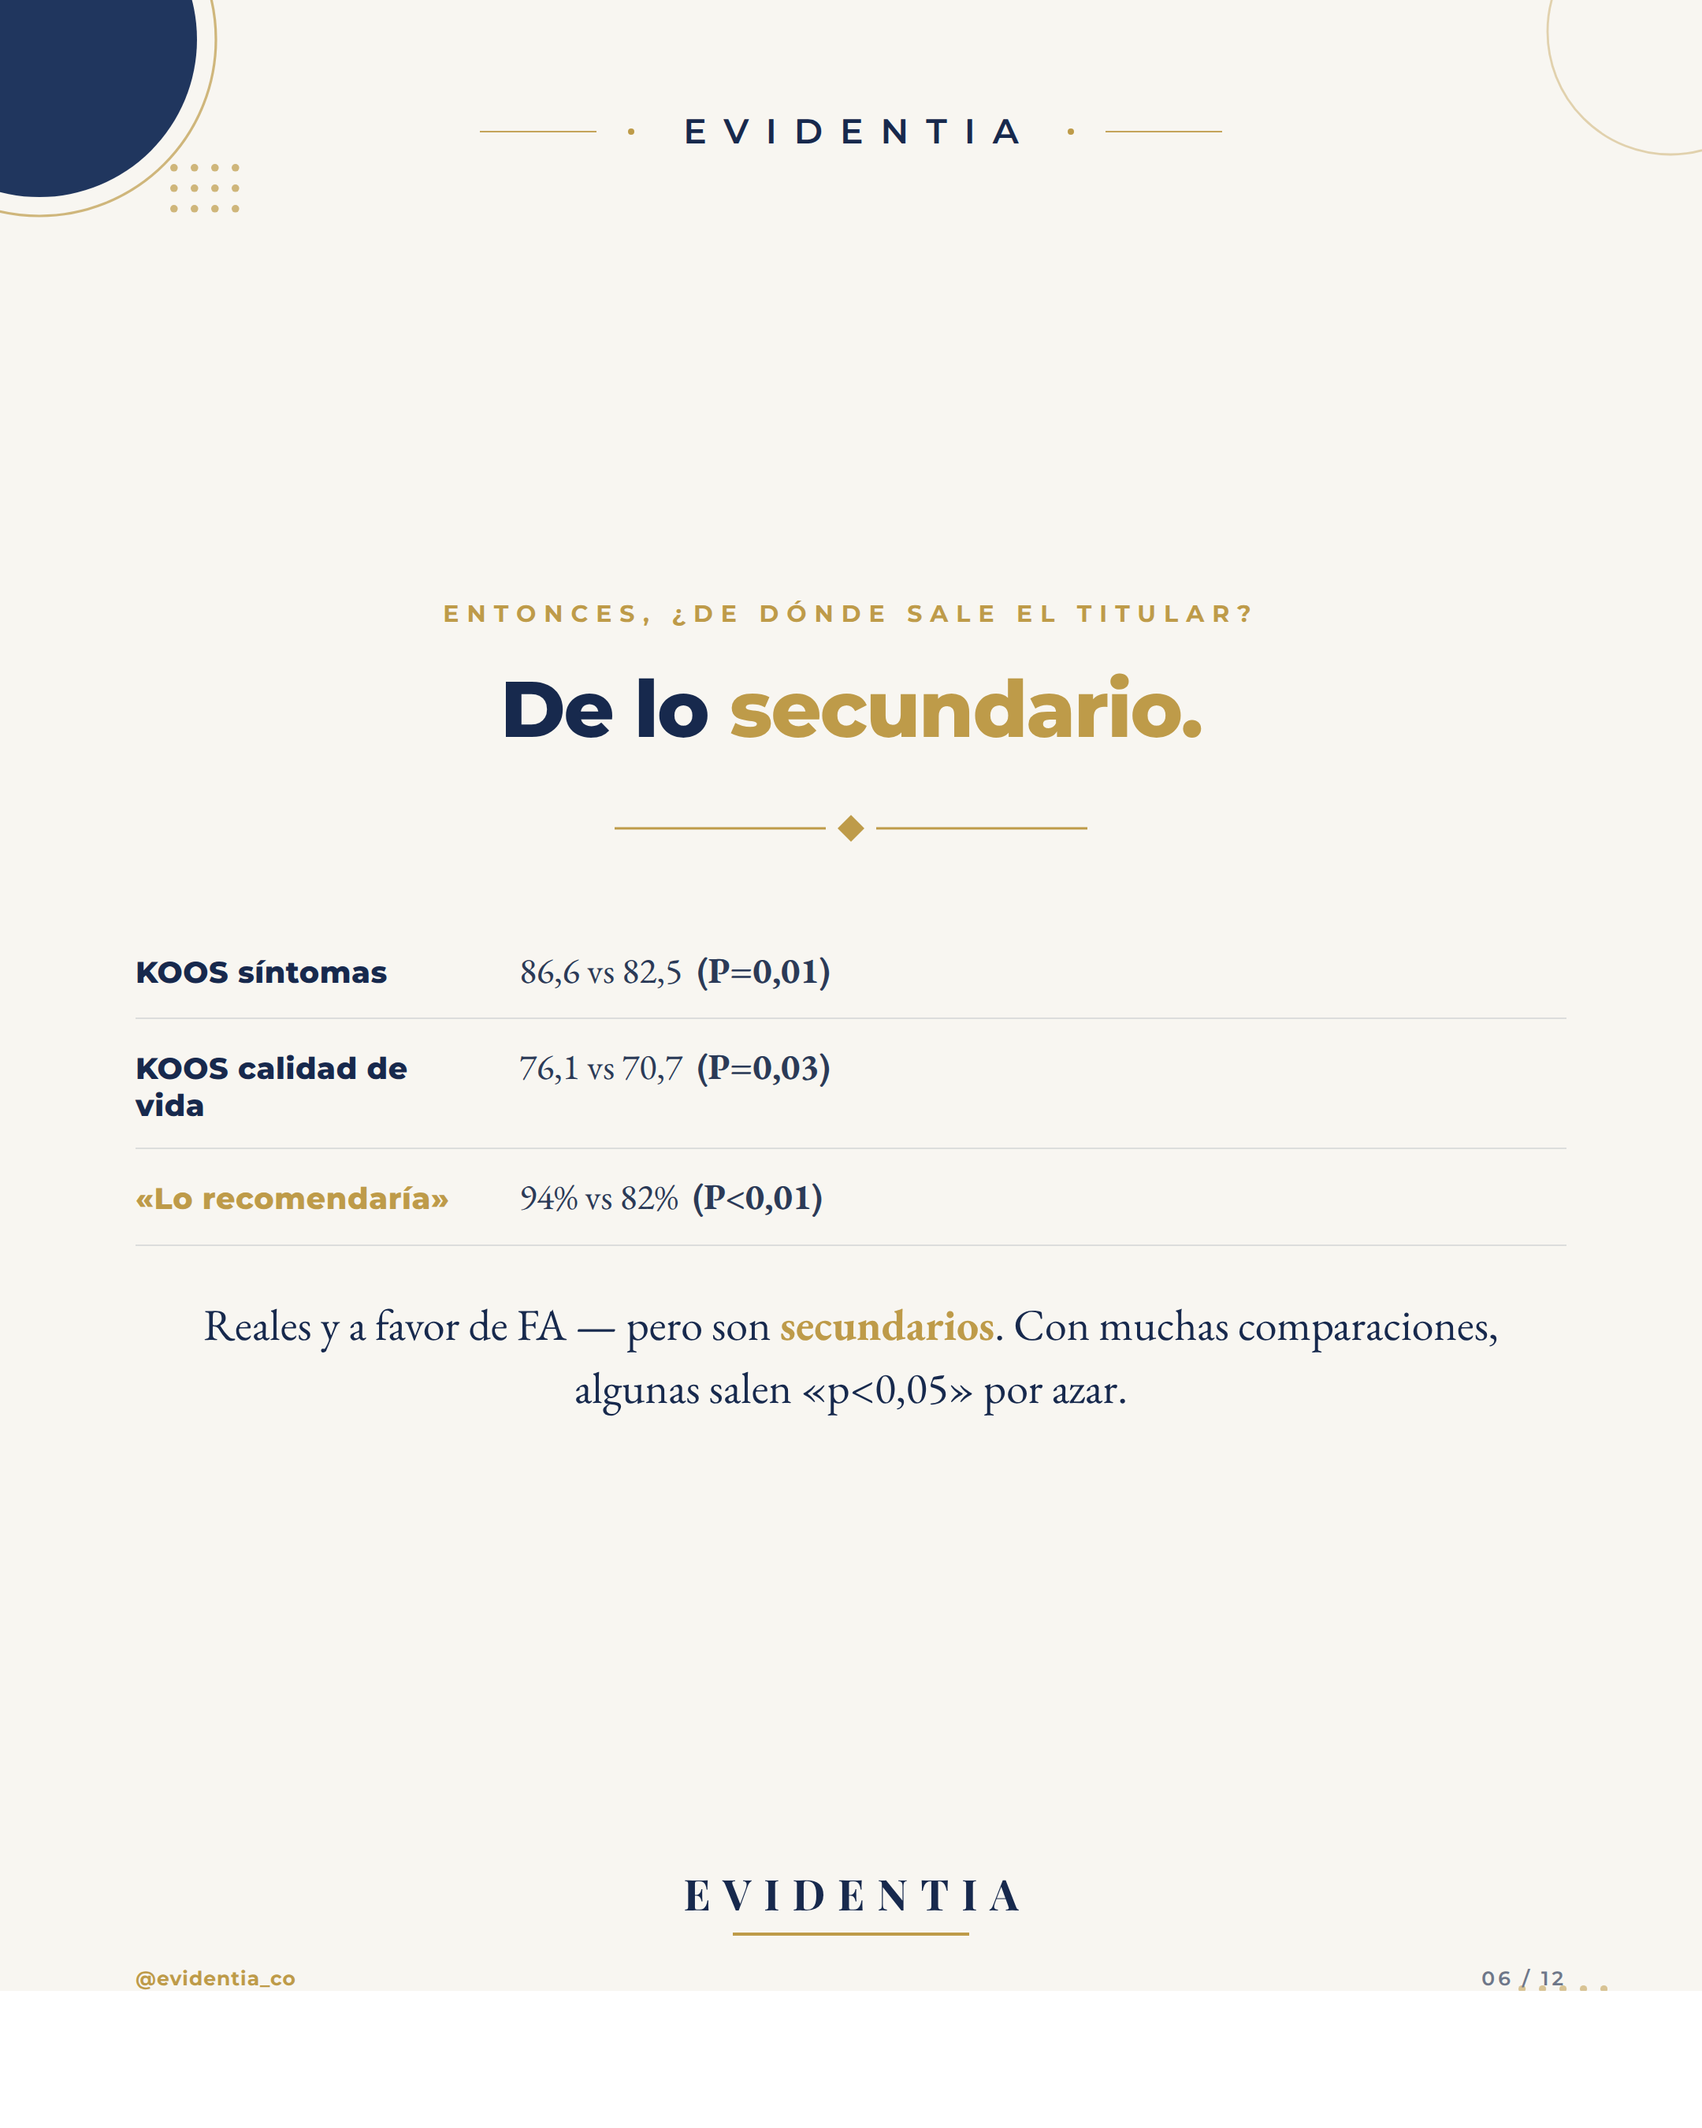
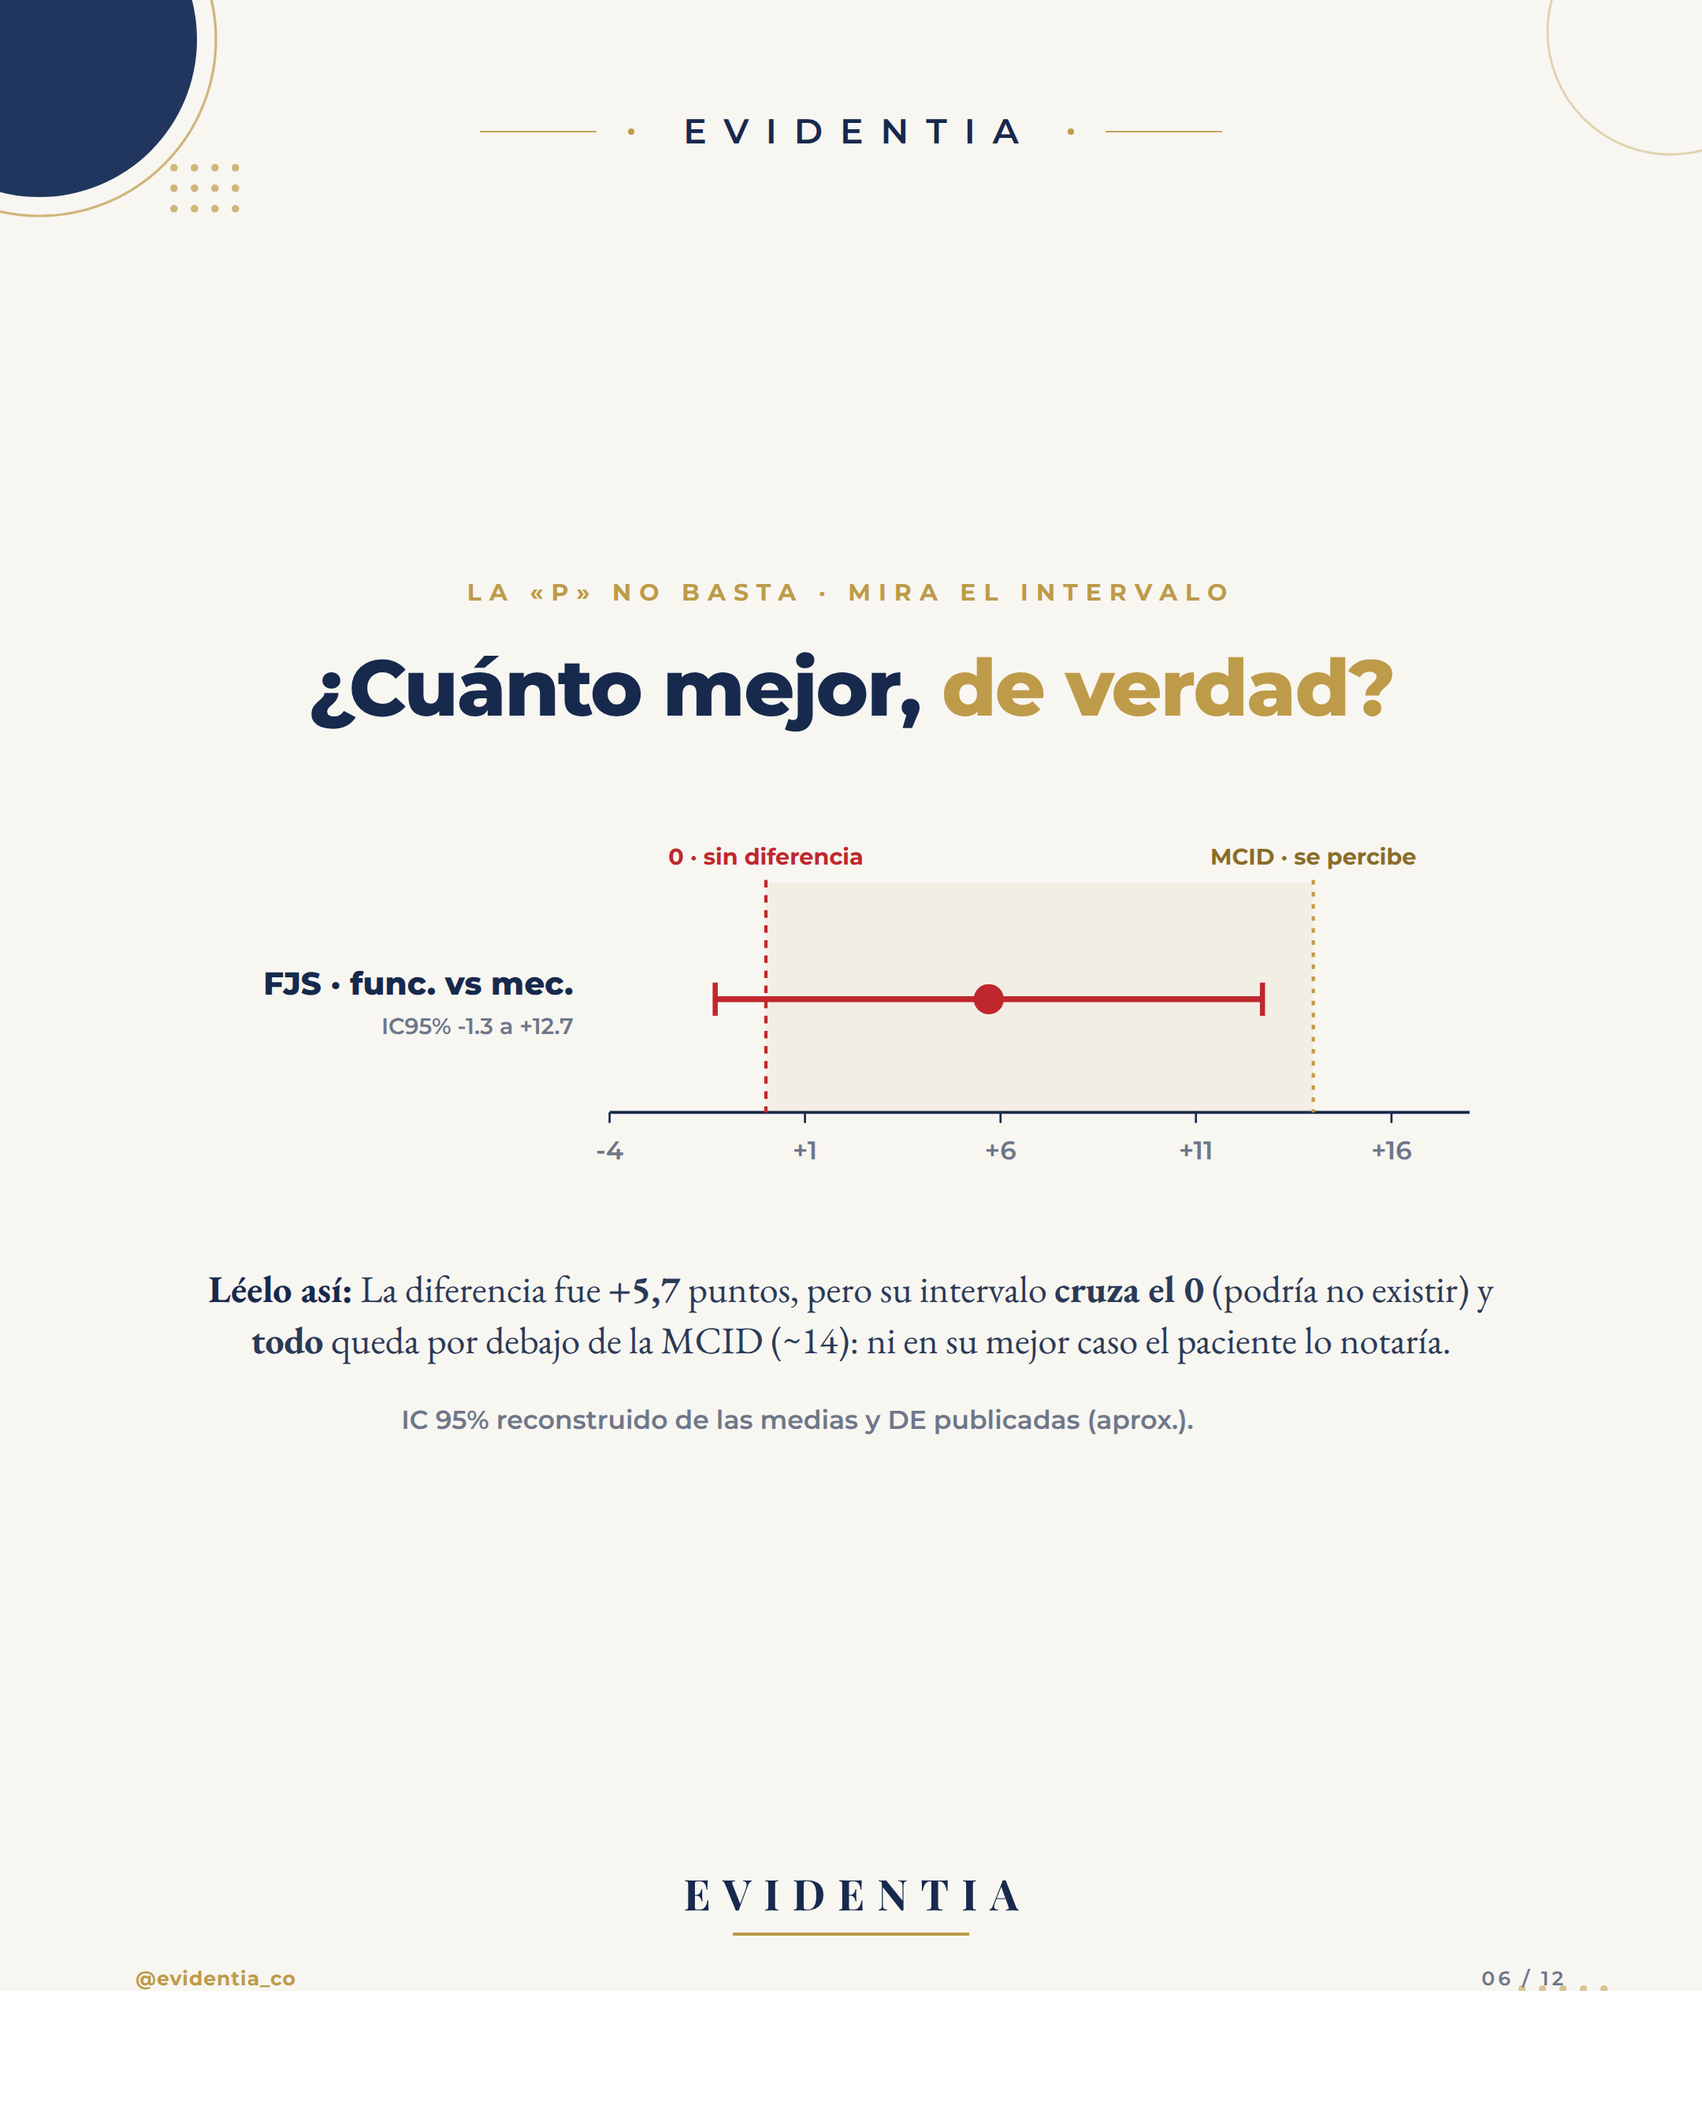
evidentia: intervalos de confianza (forest plot) en el carrusel Insall
Eleva el análisis crítico con IC95%:
- Nueva lámina: intervalo de confianza del desenlace primario (barra IC95% que
  cruza el 0 y queda bajo la MCID ~14).
- Nueva lámina: forest plot con primario + secundarios y sus IC95% (solo el
  primario cruza el 0; secundarios sin ajuste por multiplicidad).
- Hallazgo sólido con su IC (RD 49%, IC95% ~38-60%).
- Verdict con multiplicidad + certeza tipo GRADE.
IC reconstruidos de las medias/DE/n publicados y etiquetados como aprox.
(reemplaza la lista de secundarios y la lámina de MCID; sigue en 12 láminas).

Claude-Session: https://claude.ai/code/session_01199aQGSaHniMgd8evnMZQV

diff --git a/evidentia/carrusel-alineacion-rodilla-insall/src/assemble_insall.py b/evidentia/carrusel-alineacion-rodilla-insall/src/assemble_insall.py
@@ -93,6 +93,44 @@ def leg_axis(mode, w=250):
       <circle cx="100" cy="230" r="4" fill="{NAVY}"/>
     </svg>"""
 
+# ---------- SVG: forest plot / confidence-interval chart ----------
+def _fx(v, xmin, xmax, x0, x1):
+    return x0 + (v - xmin) / (xmax - xmin) * (x1 - x0)
+
+def forest(rows, xmin, xmax, mcid=None, w=940, rowh=150, pad_l=310, pad_r=60, pad_t=92, pad_b=86, tick=5):
+    x0, x1 = pad_l, w - pad_r
+    H = pad_t + rowh * len(rows) + pad_b
+    axis_y = H - pad_b
+    def X(v): return _fx(v, xmin, xmax, x0, x1)
+    s = [f'<svg viewBox="0 0 {w} {H}" width="{w}" style="display:block;margin:0 auto;max-width:100%;height:auto;">']
+    s.append(f'<line x1="{x0}" y1="{axis_y}" x2="{x1}" y2="{axis_y}" stroke="{NAVY}" stroke-width="2"/>')
+    t = xmin
+    while t <= xmax + 0.001:
+        tx = X(t); lab = '0' if abs(t) < 0.01 else f'{int(t):+d}'
+        s.append(f'<line x1="{tx:.1f}" y1="{axis_y}" x2="{tx:.1f}" y2="{axis_y+7}" stroke="{NAVY}" stroke-width="1.4"/>')
+        s.append(f'<text x="{tx:.1f}" y="{axis_y+31}" font-family="{FSANS}" font-size="17" fill="{MUTE}" text-anchor="middle">{lab}</text>')
+        t += tick
+    nx = X(0)
+    if mcid is not None:
+        mx = X(mcid)
+        s.append(f'<rect x="{nx:.1f}" y="{pad_t-2:.1f}" width="{mx-nx:.1f}" height="{axis_y-pad_t+2:.1f}" fill="{GOLD}" opacity="0.08"/>')
+        s.append(f'<line x1="{mx:.1f}" y1="{pad_t-4:.1f}" x2="{mx:.1f}" y2="{axis_y}" stroke="{GOLD}" stroke-width="2.2" stroke-dasharray="3 5"/>')
+        s.append(f'<text x="{mx:.1f}" y="{pad_t-14:.1f}" font-family="{FSANS}" font-size="15" font-weight="700" fill="#8A6D2A" text-anchor="middle">MCID · se percibe</text>')
+    s.append(f'<line x1="{nx:.1f}" y1="{pad_t-4:.1f}" x2="{nx:.1f}" y2="{axis_y}" stroke="{RED}" stroke-width="2.2" stroke-dasharray="5 5"/>')
+    s.append(f'<text x="{nx:.1f}" y="{pad_t-14:.1f}" font-family="{FSANS}" font-size="15" font-weight="700" fill="{RED}" text-anchor="middle">0 · sin diferencia</text>')
+    for i, r in enumerate(rows):
+        label, lo, pt, hi, crosses = r
+        cy = pad_t + rowh * i + rowh/2
+        col = RED if crosses else NAVY
+        s.append(f'<text x="{x0-24}" y="{cy-3:.1f}" font-family="{FSANS}" font-size="21" font-weight="800" fill="{NAVY}" text-anchor="end">{label}</text>')
+        s.append(f'<text x="{x0-24}" y="{cy+23:.1f}" font-family="{FSANS}" font-size="15" fill="{MUTE}" text-anchor="end">IC95% {lo:+.1f} a {hi:+.1f}</text>')
+        s.append(f'<line x1="{X(lo):.1f}" y1="{cy:.1f}" x2="{X(hi):.1f}" y2="{cy:.1f}" stroke="{col}" stroke-width="4"/>')
+        for xv in (lo, hi):
+            s.append(f'<line x1="{X(xv):.1f}" y1="{cy-11:.1f}" x2="{X(xv):.1f}" y2="{cy+11:.1f}" stroke="{col}" stroke-width="3.4"/>')
+        s.append(f'<circle cx="{X(pt):.1f}" cy="{cy:.1f}" r="10" fill="{col}"/>')
+    s.append('</svg>')
+    return "".join(s)
+
 # ============================================================
 # 01 · COVER
 add(f"""
@@ -152,17 +190,22 @@ add(f"""
   {whyline('En el desenlace que el propio estudio eligió para juzgarse, las dos alineaciones fueron <b>estadísticamente iguales</b>. El titular «FA es mejor» NO sale de aquí.', lead='Ojo:')}
 """, kind="content")
 
-# 06 · WHERE DID "FA WINS" COME FROM?
+# 06 · THE PRIMARY CONFIDENCE INTERVAL (la p no basta)
 add(f"""
-  <div class="kick" style="text-align:center;width:100%;">Entonces, ¿de dónde sale el titular?</div>
-  <h1 class="h-md" style="text-align:center;width:100%;">De lo <span class="gd" style="color:{GOLD};">secundario.</span></h1>
-  <div style="display:flex;justify-content:center;margin:6px 0 12px;width:100%;">{dvd(300)}</div>
-  <div style="width:100%;text-align:left;max-width:920px;margin:0 auto;">
-    {trow('KOOS síntomas', '86,6 vs 82,5 &nbsp;<b>(P=0,01)</b>')}
-    {trow('KOOS calidad de vida', '76,1 vs 70,7 &nbsp;<b>(P=0,03)</b>')}
-    {trow('«Lo recomendaría»', '94% vs 82% &nbsp;<b>(P&lt;0,01)</b>', hi=True)}
-  </div>
-  <p class="tieline">Reales y a favor de FA — pero son <b>secundarios</b>. Con muchas comparaciones, algunas salen «p&lt;0,05» por azar.</p>
+  <div class="kick" style="text-align:center;width:100%;">La «p» no basta · mira el intervalo</div>
+  <h1 class="h-md" style="text-align:center;width:100%;margin-bottom:4px;">¿Cuánto mejor, <span class="gd" style="color:{GOLD};">de verdad?</span></h1>
+  <div style="max-width:900px;margin:8px auto 0;">{forest([("FJS · func. vs mec.", -1.3, 5.7, 12.7, True)], -4, 18, mcid=14)}</div>
+  {whyline('La diferencia fue <b>+5,7</b> puntos, pero su intervalo <b>cruza el 0</b> (podría no existir) y <b>todo</b> queda por debajo de la MCID (~14): ni en su mejor caso el paciente lo notaría.', lead='Léelo así:')}
+  <p class="checknote" style="text-align:center;width:100%;max-width:840px;">IC 95% reconstruido de las medias y DE publicadas (aprox.).</p>
+""", kind="content")
+
+# 07 · FOREST PLOT — all outcomes with their CIs
+add(f"""
+  <div class="kick" style="text-align:center;width:100%;">Todos los desenlaces, con su intervalo</div>
+  <h1 class="h-md" style="text-align:center;width:100%;">El <span class="gd" style="color:{GOLD};">bosque</span> de intervalos.</h1>
+  <div style="max-width:930px;margin:10px auto 0;">{forest([("FJS · primario", -1.3, 5.7, 12.7, True), ("KOOS síntomas", 0.7, 4.1, 7.5, False), ("KOOS calidad vida", 0.0, 5.4, 10.8, False)], -4, 14)}</div>
+  <p class="tieline">Solo el <b>primario</b> (FJS) cruza el 0. Los secundarios lo excluyen <b>por poco</b> — y sin ajustar por comparaciones múltiples.</p>
+  <p class="checknote" style="text-align:center;width:100%;">IC 95% reconstruidos (aprox.) · escalas 0–100 · a favor de FA →</p>
 """, kind="content")
 
 # 07 · THE ONE ROBUST WIN — soft-tissue releases
@@ -171,17 +214,8 @@ add(f"""
   <h1 class="h-md" style="text-align:center;width:100%;margin-bottom:2px;">Menos cortes en<br>partes <span class="gd" style="color:{GOLD};">blandas.</span></h1>
   {twocard('Mecánica','65%','liberaciones','Funcional','16%','liberaciones', l_accent=RED, r_accent=GOLD)}
   <div style="font-family:{FSANS};font-weight:800;font-size:26px;color:{NAVY};text-align:center;margin-top:16px;">P &lt; 0,001</div>
-  {whyline('Efecto <b>grande</b>, <b>coherente</b> con la mecánica de FA y en la misma dirección que su hipótesis. Esta diferencia sí es creíble: FA logra el balance cortando menos tejido.', lead='Aquí sí:')}
+  {whyline('Diferencia absoluta <b>49%</b> (IC95% ≈ 38–60%): <b>lejos del 0</b>, grande y coherente con la mecánica de FA. Esta sí es creíble: FA equilibra la rodilla cortando menos tejido.', lead='Aquí sí:')}
 """, kind="content")
-
-# 08 · SIGNIFICANCE != RELEVANCE (MCID on FJS)
-add(f"""
-  <div class="kick">Aunque hubiera «ganado»…</div>
-  <h1 class="h-lg">¿6 puntos se <span class="gd" style="color:{GOLD};">notan?</span></h1>
-  {dvd(300)}
-  <p class="lead" style="text-align:center;max-width:880px;">La diferencia de FJS fue de ~6 puntos. La <b>mínima diferencia que un paciente percibe</b> (MCID) del FJS ronda los <b>14 puntos</b>. Aunque hubiera dado significativa, quizá no la sentiría.</p>
-  <div class="flag" style="margin-left:auto;margin-right:auto;">Significativo ≠ importante. Pregunta siempre por la <b>MCID</b>, no solo por la «p».</div>
-""", kind="statement")
 
 # 09 · THE SUBGROUP TRAP (CPAK Type I)
 add(f"""
@@ -202,16 +236,16 @@ add(f"""
       <div class="ct" style="color:{NAVY};">Fortalezas</div>
       <div class="cs">por qué creerle</div>
       <p>ECA aleatorizado, precisión robótica.</p>
-      <p>Menos liberaciones: efecto grande y consistente.</p>
+      <p>Primario preespecificado; menos liberaciones (efecto grande).</p>
     </div></div>
     <div class="col"><div class="cr">
       <div class="ct" style="color:{RED};">Límites</div>
       <div class="cs">por qué dudar</div>
-      <p>Primario <b>negativo</b>; el «triunfo» es secundario/subgrupo.</p>
-      <p>2 años: corto para durabilidad; unicéntrico.</p>
+      <p>Primario <b>negativo</b>; IC del FJS cruza 0 y bajo la MCID.</p>
+      <p>Secundarios/subgrupo <b>sin ajuste</b> por multiplicidad; 2 años, unicéntrico.</p>
     </div></div>
   </div>
-  <p class="tieline">Certeza <b>moderada</b>: FA no es «mejor», pero equilibra la rodilla cortando menos tejido.</p>
+  <p class="tieline">Certeza <b>moderada</b> (tipo GRADE): FA no es «mejor», pero equilibra la rodilla cortando menos tejido.</p>
 """, kind="content")
 
 # 11 · APPLY — what you take to the OR
@@ -220,7 +254,7 @@ add(f"""
   <h1 class="h-md" style="text-align:center;width:100%;">Cuatro <span class="gd" style="color:{GOLD};">conclusiones.</span></h1>
   {guarda()}
   <div style="width:100%;text-align:left;max-width:940px;margin:14px auto 0;">
-    {trow('1', 'FA <b>no superó</b> a MA en el desenlace que importaba (FJS a 2 años).')}
+    {trow('1', 'Mira el <b>IC 95%</b>, no solo la «p»: el del FJS cruza el 0 y queda bajo la MCID.')}
     {trow('2', 'Sí logra el balance con <b>menos liberaciones</b> de partes blandas.', hi=True)}
     {trow('3', 'El beneficio en CPAK tipo I es una <b>hipótesis</b>, no una indicación.')}
     {trow('4', 'Faltan datos de <b>durabilidad</b> (>10 años) antes de cambiar tu estándar.')}

diff --git a/evidentia/carrusel-alineacion-rodilla-insall/README.md b/evidentia/carrusel-alineacion-rodilla-insall/README.md
@@ -20,10 +20,19 @@ Datos clave (ECA asistido por robot, MA n=121 vs FA n=123, 2 años):
 ## Arco (12 láminas)
 
 1 Portada (hook «gold standard ¿en duda?») · 2 Ficha del artículo · 3 Concepto MA vs FA (esquema del eje) ·
-4 El diseño (desenlace primario = FJS) · 5 **El giro: primario NS (P=0,10)** · 6 De dónde sale el titular (secundarios) ·
-7 El hallazgo sólido (menos liberaciones) · 8 Significativo ≠ importante (MCID del FJS ~14) ·
-9 La trampa del subgrupo (CPAK I) · 10 La lectura del epidemiólogo · 11 Cuatro conclusiones (chuleta) ·
+4 El diseño (desenlace primario = FJS) · 5 **El giro: primario NS (P=0,10)** ·
+6 **El intervalo de confianza del primario** (barra IC95% que cruza el 0 y queda bajo la MCID) ·
+7 **Forest plot** (primario + secundarios con su IC95%; solo el primario cruza el 0) ·
+8 El hallazgo sólido (menos liberaciones, IC95% ≈ 38–60%) · 9 La trampa del subgrupo (CPAK I) ·
+10 La lectura del epidemiólogo (incluye multiplicidad + certeza tipo GRADE) · 11 Cuatro conclusiones (chuleta) ·
 12 Cierre + pregunta de debate.
+
+### Sobre los intervalos de confianza
+El artículo (revista de suscripción, no en PMC) reporta medias ± DE y valores p, pero no publica
+los IC de las diferencias entre grupos. Los IC95% de las láminas 6–8 se **reconstruyeron** a partir
+de las medias, DE y n publicados (error estándar de la diferencia → ±1,96·EE) y se etiquetan como
+«reconstruidos (aprox.)». Valores clave: FJS +5,7 (IC95% −1,3 a +12,7 — cruza 0); KOOS síntomas
++4,1 (+0,7 a +7,5); KOOS-CdV +5,4 (~0,0 a +10,8); liberaciones RD 49% (≈ 38–60%).
 
 ## Imaginería
 

diff --git a/evidentia/carrusel-alineacion-rodilla-insall/CAPTION_INSTAGRAM.md b/evidentia/carrusel-alineacion-rodilla-insall/CAPTION_INSTAGRAM.md
@@ -14,7 +14,9 @@ El ECA (asistido por robot, 244 rodillas) comparó ambas técnicas. ¿El resulta
 
 Entonces, ¿de dónde sale el «FA es mejor»? De desenlaces **secundarios** (KOOS, «lo recomendaría») y de un **subgrupo** (CPAK tipo I). Reales, pero generan hipótesis — no las confirman.
 
-Lo que SÍ es sólido: FA necesitó **muchas menos liberaciones** de partes blandas (16% vs 65%, P<0,001). Efecto grande y coherente con su mecánica.
+Mira el **intervalo de confianza**, no solo la p: la diferencia del FJS fue +5,7 puntos, pero su **IC95% cruza el 0** y queda por debajo de la **MCID (~14)** — ni en su mejor caso el paciente lo notaría.
+
+Lo que SÍ es sólido: FA necesitó **muchas menos liberaciones** de partes blandas (16% vs 65%; diferencia 49%, IC95% ≈ 38–60% — lejos del 0). Efecto grande y coherente con su mecánica.
 
 📌 **Guárdalo** para tu próxima sesión bibliográfica: es un caso de manual de «primario negativo, titular positivo».
 
